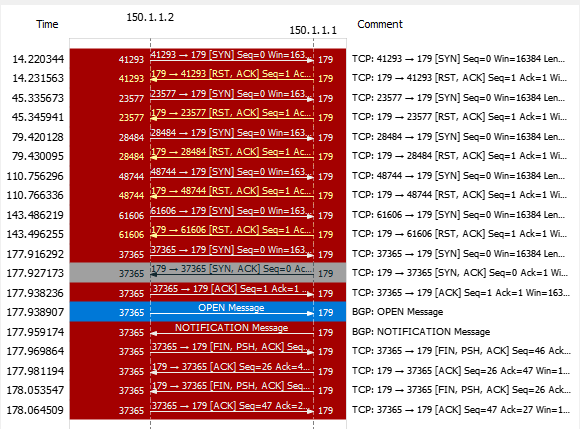
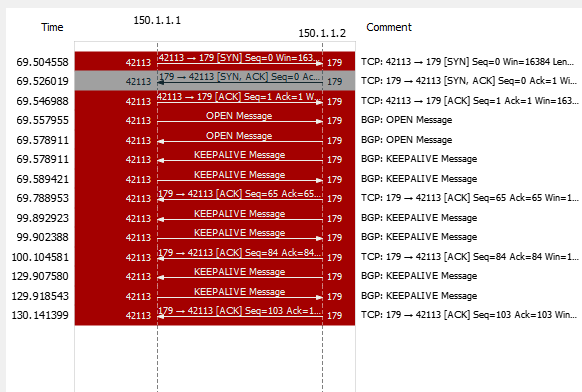
bgp : CCIE chapter 2

diff --git a/BGP/1 BGP_Foundation.md b/BGP/1 BGP_Foundation.md
@@ -144,8 +144,8 @@ exit
 !---------------------------------------------
 ! BGP Config 
 !---------------------------------------------
-	router bgp 111 
-	nei 150.1.1.2 remote-as 500
+	router bgp 111                 ! start BGP Process
+	nei 150.1.1.2 remote-as 500    ! Add a neighbour 
 end
 wr
 ~~~
@@ -199,6 +199,40 @@ end
 wr
 ~~~
 
-### BGP Cnfiguration
-* __Start the BGP Process__
-`router bgp [asn]`
+### BGP Message Exchange 
+* Wireshark capture on f0/0 interface of R1
+
+    ![](pics/nei_cap2.png)
+    
+* Debug of BGP process `debug ip bgp all` on R1 
+    ~~~
+    *Mar  1 00:03:48.299: BGP: 150.1.1.1 passive open to 150.1.1.2
+    *Mar  1 00:03:48.299: BGP: 150.1.1.1 went from Idle to Connect
+    *Mar  1 00:03:48.307: BGP: 150.1.1.1 rcv message type 1, length (excl. header) 26
+    *Mar  1 00:03:48.307: BGP: 150.1.1.1 rcv OPEN, version 4, holdtime 180 seconds
+    *Mar  1 00:03:48.311: BGP: 150.1.1.1 went from Connect to OpenSent
+    *Mar  1 00:03:48.311: BGP: 150.1.1.1 sending OPEN, version 4, my as: 500, holdtime 180 second                                                                                                s
+    *Mar  1 00:03:48.311: BGP: 150.1.1.1 rcv OPEN w/ OPTION parameter len: 16
+    *Mar  1 00:03:48.311: BGP: 150.1.1.1 rcvd OPEN w/ optional parameter type 2 (Capability) len                                                                                                 6
+    *Mar  1 00:03:48.311: BGP: 150.1.1.1 OPEN has CAPABILITY code: 1, length 4
+    *Mar  1 00:03:48.315: BGP: 150.1.1.1 OPEN has MP_EXT CAP for afi/safi: 1/1
+    *Mar  1 00:03:48.315: BGP: 150.1.1.1 rcvd OPEN w/ optional parameter type 2 (Capability) len                                                                                                 2
+    *Mar  1 00:03:48.315: BGP: 150.1.1.1 OPEN has CAPABILITY code: 128, length 0
+    *Mar  1 00:03:48.315: BGP: 150.1.1.1 OPEN has ROUTE-REFRESH capability(old) for all address-f                                                                                                amilies
+    *Mar  1 00:03:48.315: BGP: 150.1.1.1 rcvd OPEN w/ optional parameter type 2 (Capability) len                                                                                                 2
+    *Mar  1 00:03:48.319: BGP: 150.1.1.1 OPEN has CAPABILITY code: 2, length 0
+    *Mar  1 00:03:48.319: BGP: 150.1.1.1 OPEN has ROUTE-REFRESH capability(new) for all address-f                                                                                                amilies
+    BGP: 150.1.1.1 rcvd OPEN w/ remote AS 111
+    *Mar  1 00:03:48.319: BGP: 150.1.1.1 went from OpenSent to OpenConfirm
+    *Mar  1 00:03:48.319: BGP: 150.1.1.1 send message type 1, length (incl. header) 45
+    *Mar  1 00:03:48.339: BGP: 150.1.1.1 went from OpenConfirm to Established
+    *Mar  1 00:03:48.339: %BGP-5-ADJCHANGE: neighbor 150.1.1.1 Up
+    ~~~
+
+### Verify BGP Summary 
+* `sh ip bgp summary `
+    ~~~
+    Neighbor        V    AS MsgRcvd MsgSent   TblVer  InQ OutQ Up/Down  State/PfxRcd
+    150.1.1.1       4   111       5       5        1    0    0 00:02:29        0
+    150.1.1.5       4   222       4       4        1    0    0 00:01:47        0
+    ~~~
